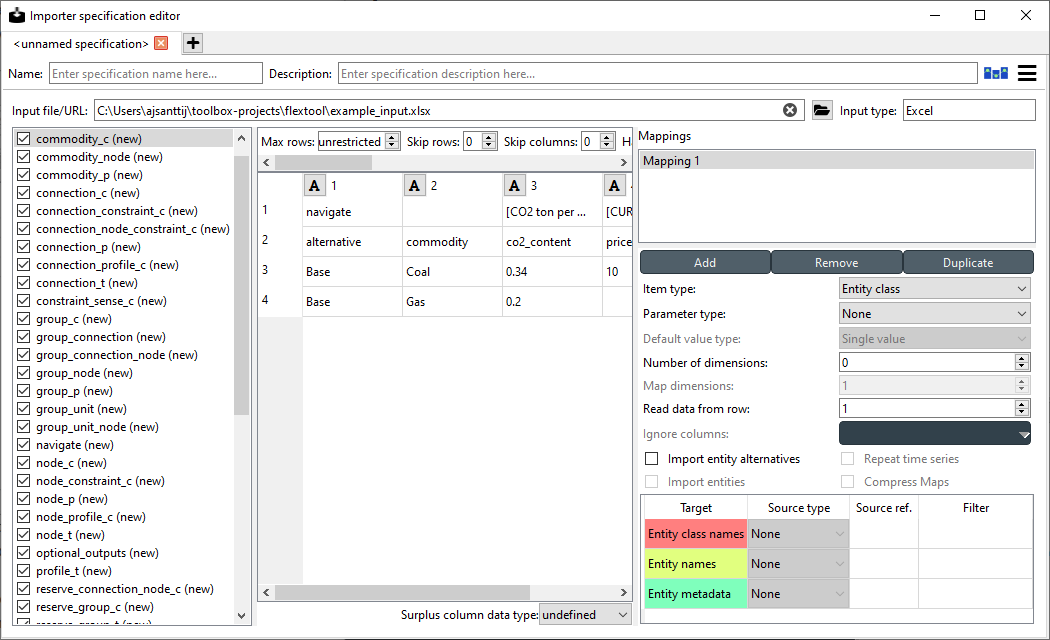
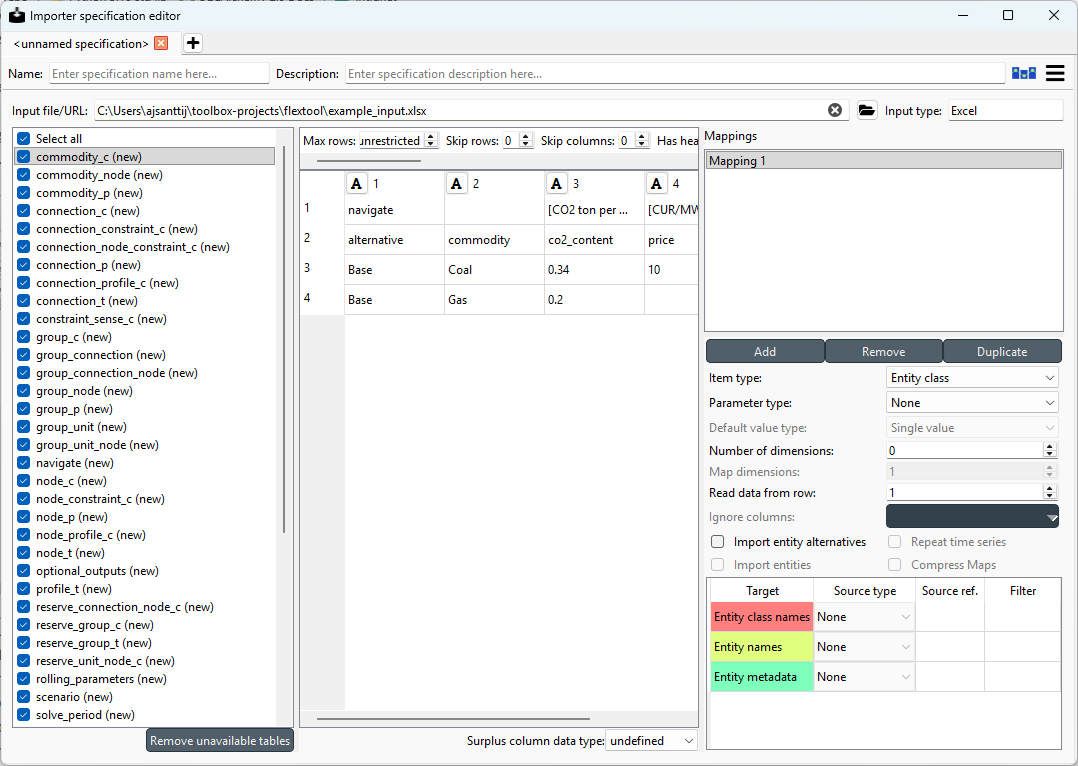
Update documentation and CHANGELOG.md
Re #3195

Changed region(s): [[0.0, 0.0, 1.0, 1.0], [0.9752, 0.0, 1.0, 0.0312], [0.9143, 0.0, 0.9448, 0.0312]]

diff --git a/docs/source/data_import_export.rst b/docs/source/data_import_export.rst
@@ -116,7 +116,7 @@ the proper connector and is only waiting for confirmation
 .. image:: img/importer_connector_type.png
    :align: center
 
-When creating a Importer specification, it is usually helpful to have the data already connected to the Importer in
+When creating an Importer specification, it is usually helpful to have the data already connected to the Importer in
 question so it is easier to visualize how the importer is handling the data.
 
 In the upper part of the specification editor, the name and description for the specification can be set.
@@ -153,6 +153,19 @@ The order can be changed by dragging and dropping the table names.
    Specifically, each CSV file in the datapackage shows up as a separate table in the table list.
    See :ref:`Setting up datapackages in Links` for more information on how to pack CSVs into a datapackage
    automatically within your workflow.
+
+The image below shows different font styles used in the table:
+
+.. image:: img/import_editor_source_tables.png
+   :align: center
+
+The tables that exist in the input source, such as the 'Widgets' table above, are shown with normal text in the list.
+Tables that are defined in the specification but are missing in the source are geyed like the 'Objects' table.
+New tables that have not been mapped before are tagged with ``(new)``.
+
+Greyed tables can be removed by selecting them (use **Shift** or **Ctrl** to select multiple)
+and clicking **Delete** from the right-click popup menu.
+The **Remove unavailable tables** button will delete all such tables that are not found in the source.
 
 Next to the table list, there is a small widget that allows to "format" the selected table.
 The available options differ depending on the selected input type. The above picture shows some of the available

diff --git a/CHANGELOG.md b/CHANGELOG.md
@@ -11,6 +11,11 @@ The format is based on [Keep a Changelog](http://keepachangelog.com/en/1.1.0/)
   including location data that has not been accessible in the editor before.
   Existing entities can be updated using the table. 
   However, new entities cannot currently be added from the table.
+- Importer Specification editor has a new button **Remove unavailable tables** that removes source tables
+  which are not found in the input source.
+- Source tables can now also be removed with the **Delete** action found in the right-click context menu.
+  The action removes all selected items except the ones that are found in the source.
+  Existing tables can be unchecked to exclude them.
 
 ### Changed
 
